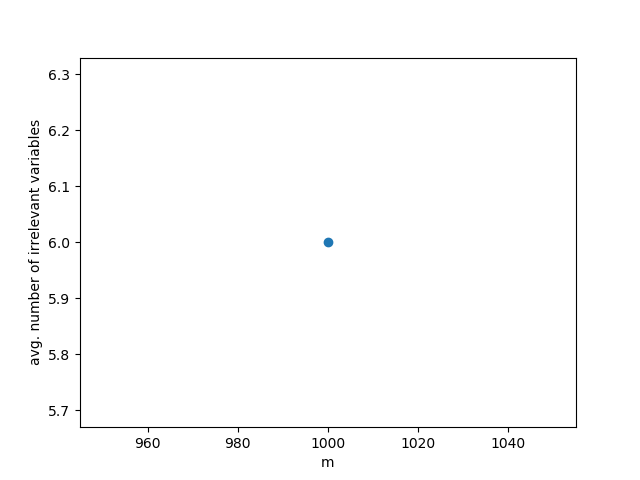
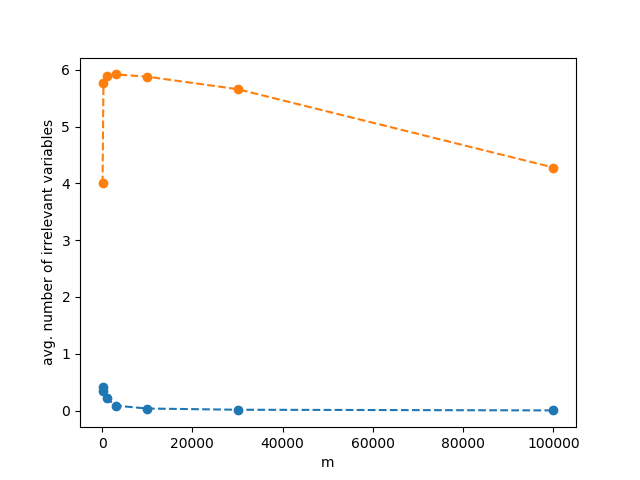
commit pics

diff --git a/Assignments/PruningProblems/main.py b/Assignments/PruningProblems/main.py
@@ -1,7 +1,9 @@
+import time
 import os.path
 import numpy as np
 import collections
 import matplotlib.pyplot as plt
+plt.switch_backend('agg')
 
 eps = 1e-5
 max_datapoints = 500000
@@ -57,10 +59,10 @@ def IC(X, Y):
     #print(P_00, P_01, P_10, P_11)
     return P_x * entropy(P_11, P_10) + (1 - P_x) * entropy(P_01, P_00)
 
-def fit_decision_tree(X, Y, node, p_vis, pruning = 0, extra_info = null):
+def fit_decision_tree(X, Y, node, p_vis, pruning = 0, extra_info = None):
     # args
     # pruning = 0, 1, 2, 3 -- no pruning, by depth, by size, by significance
-    if pruning != 0 and extra_info == null:
+    if pruning != 0 and extra_info is None:
         print('ERROR, EXTRA_INFO IS NEEDED')
         return
     m, k = X.shape
@@ -126,18 +128,20 @@ def print_decision_tree(node, depth = 0):
     if node.y != None:
         print(' ' * 2 * depth + 'Y = %d' % node.y)
     if node.x_id == None:
-        return
+        return depth
     print(' ' * 2 * depth + 'If X[%d] == 0:' % node.x_id)
+    max_depth = depth
     if node.equals_zero != None:
-        print_decision_tree(node.equals_zero, depth + 1)
+        max_depth = max(max_depth, print_decision_tree(node.equals_zero, depth + 1))
     else:
         print(' ' * 2 * (depth + 1) + 'No data')
     print(' ' * 2 * depth + 'Else:')
     if node.equals_one != None:
         #print(' ' * 2 * depth + 'If X[%d] == 1:' % node.x_id)
-        print_decision_tree(node.equals_one, depth + 1)
+        max_depth = max(max_depth, print_decision_tree(node.equals_one, depth + 1))
     else:
         print(' ' * 2 * (depth + 1) + 'No data')
+    return max_depth
 
 def generate_unique_data(load = False, save = False):
     global data_X
@@ -249,7 +253,7 @@ def question1(show = True, save = False, save_file = 'q1.png'):
     repeat_times_1 = 5
     num_of_test_data_sets = 1
     X_test, Y_test = get_data(50000, for_testing = True)
-    ms = [100, 300, 1000, 3000, 10000, 30000, 100000, 300000]
+    ms = [100, 300, 1000, 3000, 10000, 30000, 100000]
     for m in ms:
         err = 0
         for j in range(repeat_times_1):
@@ -277,10 +281,9 @@ def question1(show = True, save = False, save_file = 'q1.png'):
 def question2(show = True, save = False, save_file = 'q2.png'):
     k = 21
     num_of_vars = []
-    repeat_times_1 = 1
-    num_of_test_data_sets = 1
-    #ms = [100, 300, 1000, 3000, 10000, 30000, 100000, 300000]
-    ms = [1000]
+    repeat_times_1 = 50
+    ms = [100, 300, 1000, 3000, 10000, 30000, 100000]
+    #t_start = time.time()
     for m in ms:
         ir_vars = 0
         for j in range(repeat_times_1):
@@ -290,8 +293,11 @@ def question2(show = True, save = False, save_file = 'q2.png'):
             fit_decision_tree(X_train, Y_train, tree.root, vis)
             ir_vars += len(get_num_of_vars(tree.root))
             print(get_num_of_vars(tree.root))
-        print('Average irrelevant variables for m=%d is %f:' % (m, ir_vars / repeat_times_1 / num_of_test_data_sets))
-        num_of_vars.append(ir_vars / repeat_times_1 / num_of_test_data_sets)
+            #print(print_decision_tree(tree.root))
+        print('Average irrelevant variables for m=%d is %f:' % (m, ir_vars / repeat_times_1))
+        num_of_vars.append(ir_vars / repeat_times_1)
+    #t_stop = time.time()
+    #print((t_stop - t_start))
     plt.xlabel('m')
     plt.ylabel('avg. number of irrelevant variables')
     plt.plot(ms, num_of_vars, '--o')
@@ -403,5 +409,5 @@ if __name__ == '__main__':
     else:
         generate_unique_data(load = False, save = True)
     #count()
+    question1(show = False, save = True)
     question2(show = False, save = True)
-    #question1(show = False, save = True)
